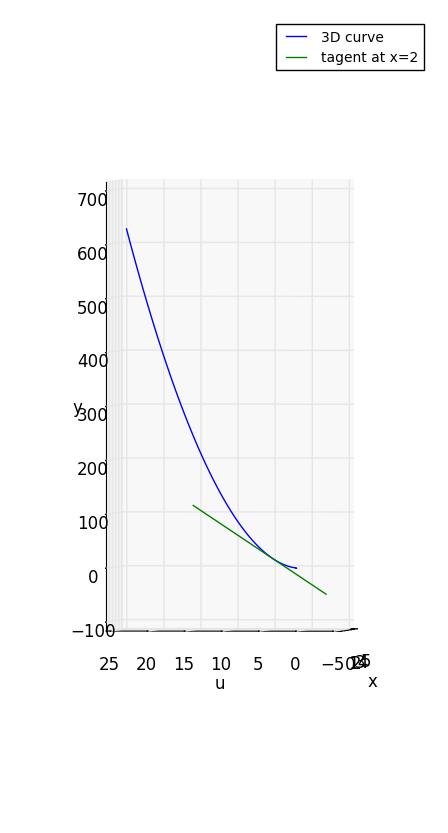
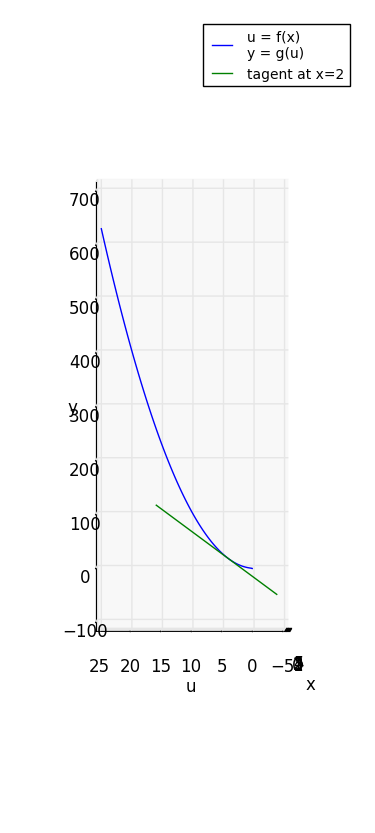
update png and add math equation

diff --git a/chainrule.py b/chainrule.py
@@ -61,7 +61,7 @@ DX_Offset = [dx+x for dx in DX]
 DU_Offset = [du+f(x) for du in DU]
 DY_Offset = [dy+g(f(x)) for dy in DY]
 
-ax.plot(X, U, Y, label='3D curve')
+ax.plot(X, U, Y, label='u = f(x)\ny = g(u)')
 ax.set_xlabel('x')
 ax.set_ylabel('u')
 ax.set_zlabel('y')

diff --git a/README.md b/README.md
@@ -2,7 +2,8 @@
 A Visual Proof of Calculus Chain Rule Using Python with matplotlib
 
 ## Screenshots
-![\Large x=\frac{-b\pm\sqrt{b^2-4ac}}{2a}](https://latex.codecogs.com/svg.latex?x%3D%5Cfrac%7B-b%5Cpm%5Csqrt%7Bb%5E2-4ac%7D%7D%7B2a%7D)
+![\Large u = x^2](https://latex.codecogs.com/svg.latex?x%3D%5Cfrac%7B-b%5Cpm%5Csqrt%7Bb%5E2-4ac%7D%7D%7B2a%7D)
+![\Large y = u^2](https://latex.codecogs.com/svg.latex?x%3D%5Cfrac%7B-b%5Cpm%5Csqrt%7Bb%5E2-4ac%7D%7D%7B2a%7D)
 
 ![Alt text](images/xuy.png)
 
